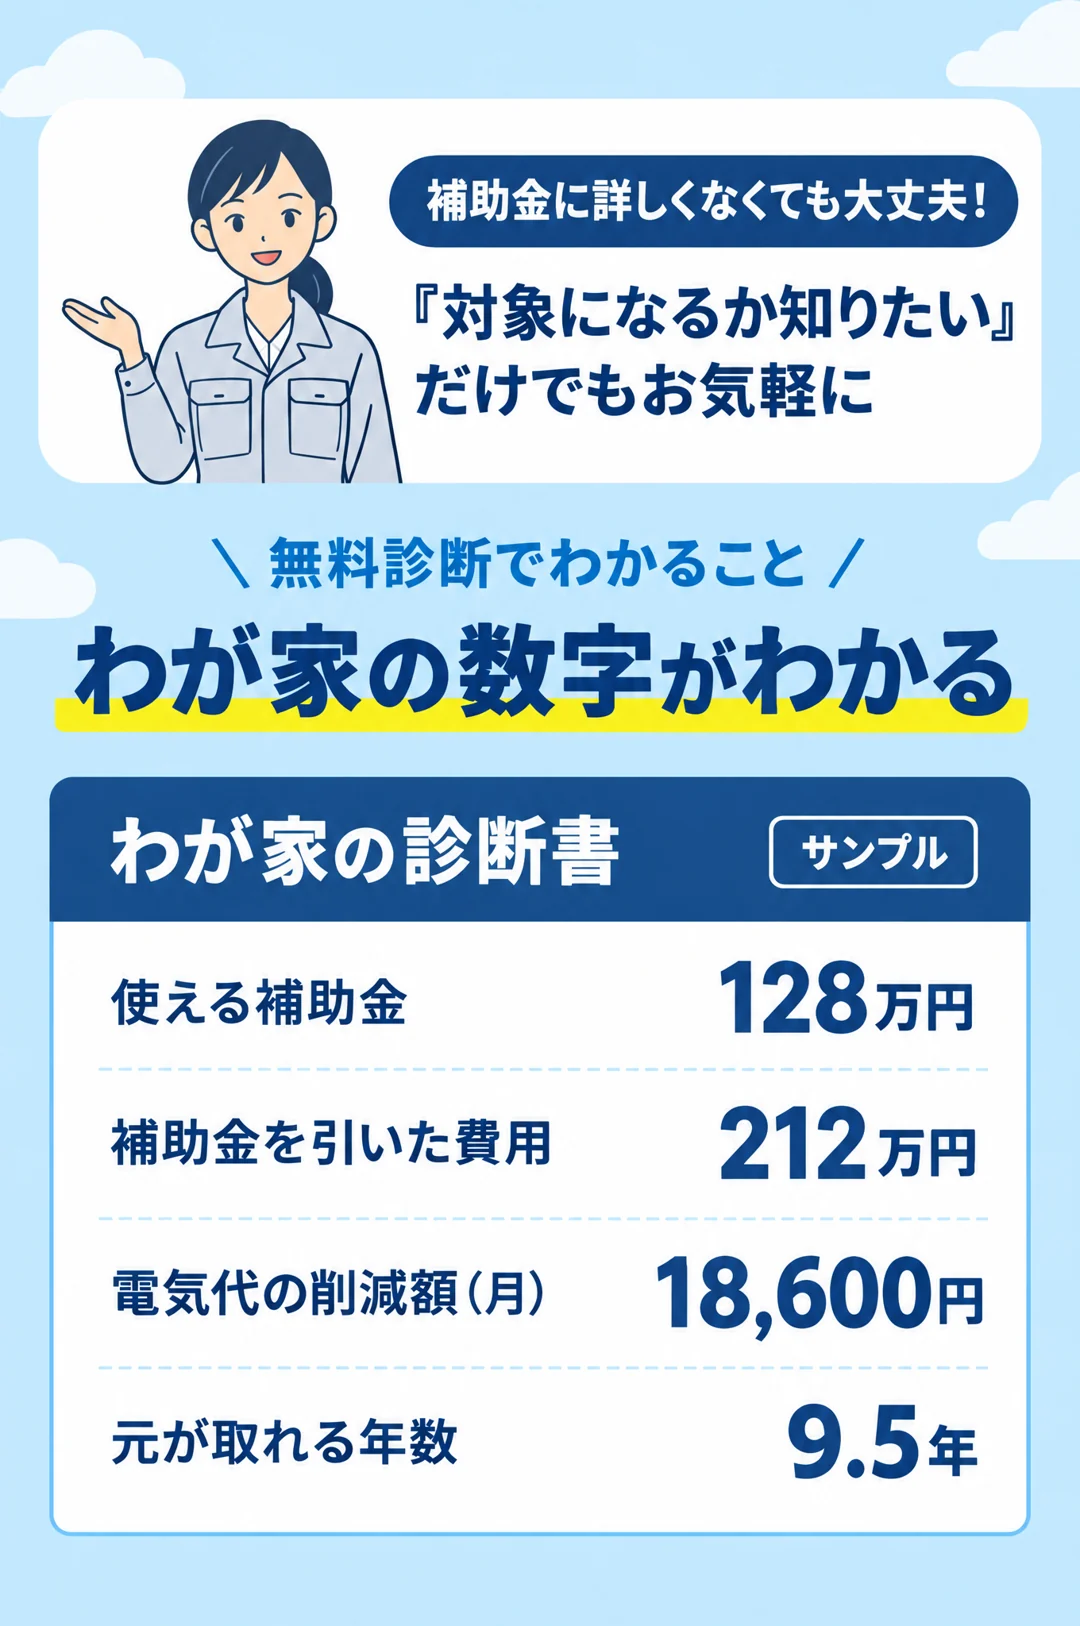
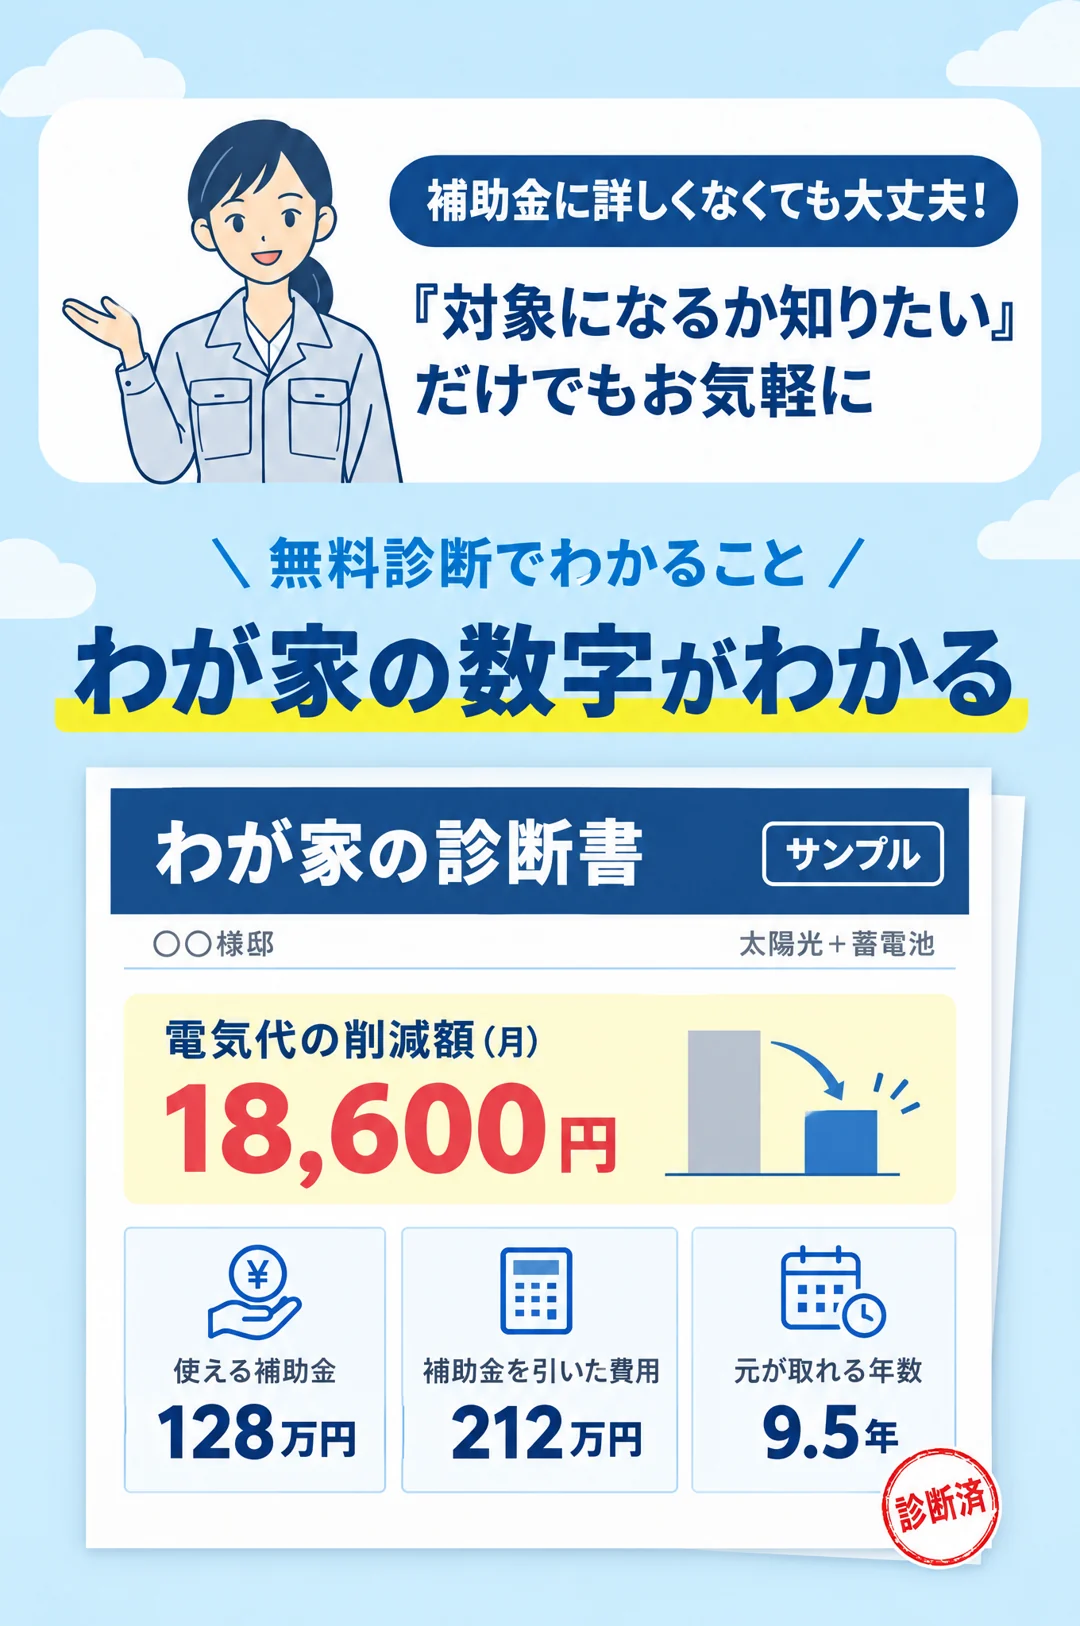
Add files via upload

diff --git a/index.html b/index.html
@@ -431,6 +431,15 @@ footer{background:var(--navy);color:#cfdcef;text-align:center;font-size:12.5px;p
 .sticky .st-txt{display:flex;align-items:center;justify-content:center;gap:10px;font-size:clamp(22px,6.4vw,27px);white-space:nowrap}
 .sticky .maru{display:grid;place-items:center;width:2.3em;height:2.3em;border-radius:50%;background:#fff;color:var(--orange);font-size:.62em;font-weight:900;line-height:1;flex:0 0 auto}
 .cta-lab{font-size:clamp(22px,6.4vw,27px)!important;letter-spacing:.04em;margin-bottom:10px!important}
+
+/* 見出し・FAQを大きく */
+.hgroup .h2,.html-sec .h2{font-size:clamp(29px,8.4vw,35px)!important;line-height:1.4!important}
+.hgroup .kicker{font-size:clamp(17px,5vw,20px)!important}
+.hgroup{margin-bottom:22px}
+.faq summary{font-size:clamp(17px,5vw,19px)!important;padding:16px 44px 16px 50px!important}
+.faq .q{font-size:23px!important;top:16px!important}
+.faq .a{font-size:17.5px!important;line-height:1.85!important;padding:14px 18px 18px 50px!important}
+.faq .a::before{font-size:23px!important}
 </style>
 </head>
 <body>
